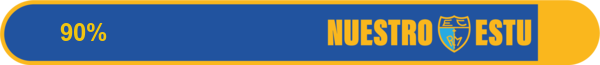
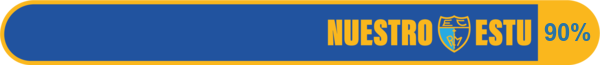
90%

Changed region(s): [[0.9, 0.3385, 0.99, 0.6462], [0.09, 0.3385, 0.18, 0.6462]]

diff --git a/public/noticias/encuesta/index.html b/public/noticias/encuesta/index.html
@@ -144,7 +144,7 @@
 <p>Nos interesa su opinión; hemos preparado una rapidísima encuesta. Le llevará muy poco tiempo contestarla y nos comprometemos a trasladar su resultado a la directiva.</p>
 <p>¡Ayúdenos a llegar a 1000 repuestas!</p>
 <div class="progressbar">
-<img src=/img/progbar-83.png alt=83% style="max-width: 100%">
+<img src=/img/progbar-90.png alt=90% style="max-width: 100%">
 </div>
 <iframe src="https://docs.google.com/forms/d/e/1FAIpQLSdsSQaVsEkUFBAuhsDd7TpCpMPtx6kA_iZXi_Hk7SD-1lQ00Q/viewform?embedded=true" width="90%" height="600" frameborder="0" marginheight="0" marginwidth="0">Chargement en cours…</iframe>
 </div>

diff --git a/public/index.html b/public/index.html
@@ -2,7 +2,7 @@
 <html lang="en">
 
 <head>
-	<meta name="generator" content="Hugo 0.83.1" />
+	<meta name="generator" content="Hugo 0.84.2" />
   <meta charset="utf-8">
   <meta http-equiv="x-ua-compatible" content="ie=edge">
   <title>Nuestro Estu</title>

diff --git a/content/noticias/encuesta.md b/content/noticias/encuesta.md
@@ -16,6 +16,6 @@ Nos interesa su opinión; hemos preparado una rapidísima encuesta. Le llevará 
 
 ¡Ayúdenos a llegar a 1000 repuestas!
 
-{{< progressbar src="/img/progbar-83.png" alt="83%" >}}
+{{< progressbar src="/img/progbar-90.png" alt="90%" >}}
 
 {{< survey src="1FAIpQLSdsSQaVsEkUFBAuhsDd7TpCpMPtx6kA_iZXi_Hk7SD-1lQ00Q" width="400" height="4871" >}}
